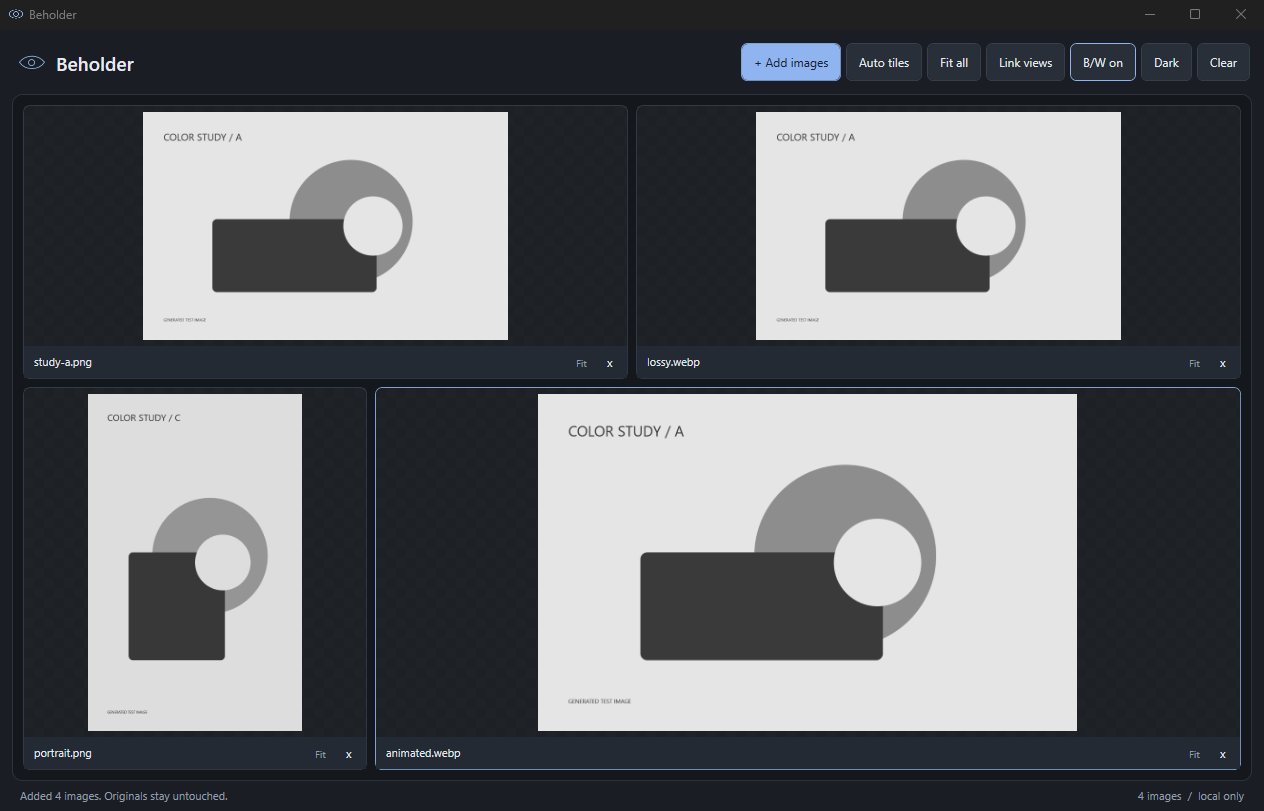
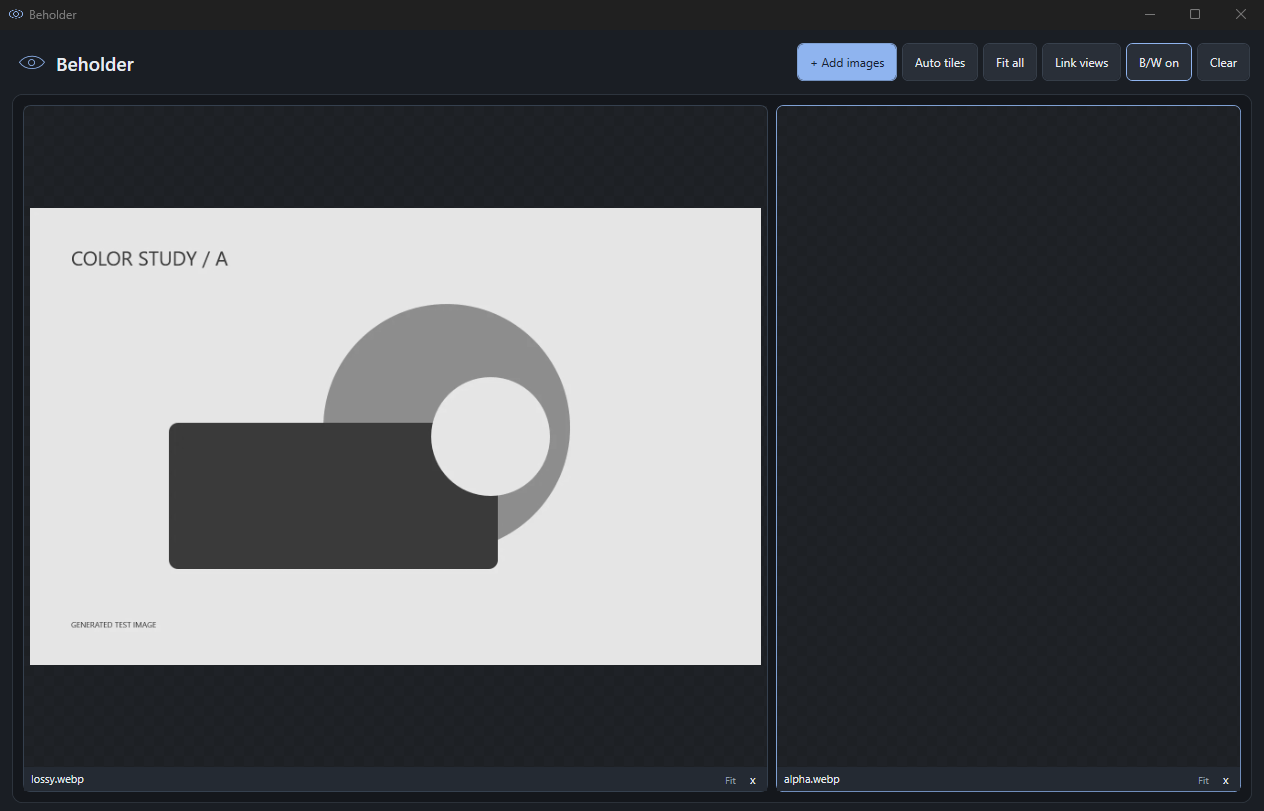
Beholder: compact captions and dark-only canvas
Remove the permanent app footer and theme selector; reclaim image space, preserve transient import errors, and verify 39 native regression checks.

diff --git a/beholder/src/Beholder.cs b/beholder/src/Beholder.cs
@@ -15,7 +15,7 @@ using Microsoft.Win32;
 
 [assembly: AssemblyTitle("Beholder")]
 [assembly: AssemblyDescription("A private, lightweight image comparison canvas")]
-[assembly: AssemblyVersion("1.0.0.0")]
+[assembly: AssemblyVersion("1.0.1.0")]
 [assembly: System.Runtime.Versioning.TargetFramework(".NETFramework,Version=v4.8")]
 
 namespace Beholder
@@ -42,22 +42,21 @@ namespace Beholder
         public string LastMessage { get; private set; }
         public ImageTile FocusedTile { get; private set; }
         private readonly Dictionary<string, int> pending = new Dictionary<string, int>(StringComparer.OrdinalIgnoreCase);
-        private readonly TextBlock status = new TextBlock();
-        private readonly TextBlock count = new TextBlock();
+        private readonly TextBlock errorText = new TextBlock();
+        private readonly Border errorNotice = new Border();
+        private readonly System.Windows.Threading.DispatcherTimer noticeTimer = new System.Windows.Threading.DispatcherTimer { Interval = TimeSpan.FromSeconds(8) };
         private readonly Border canvasBorder = new Border();
         private readonly Grid canvasHost = new Grid();
         private readonly StackPanel empty = new StackPanel();
         private readonly Button layoutButton;
         private readonly Button linkButton;
-        private readonly Button backgroundButton;
         private readonly Button monochromeButton;
         private ImageTile selected;
         private int importGeneration;
         private int clipboardNumber;
-        private int backgroundIndex;
         private bool fullscreen;
         private WindowState oldWindowState;
-        private readonly Brush[] backgrounds = { Paint("#14171C"), Paint("#797F86"), Paint("#F3F2EF") };
+        private readonly Brush canvasBackground = Paint("#14171C");
         public static readonly Brush Text = Paint("#E7EBF0");
         public static readonly Brush Muted = Paint("#939EAD");
         public static readonly Brush Accent = Paint("#8FB4EF");
@@ -86,7 +85,6 @@ namespace Beholder
             var root = new Grid();
             root.RowDefinitions.Add(new RowDefinition { Height = new GridLength(64) });
             root.RowDefinitions.Add(new RowDefinition());
-            root.RowDefinitions.Add(new RowDefinition { Height = new GridLength(30) });
             Content = root;
             var bar = new DockPanel { LastChildFill = false, Margin = new Thickness(18, 10, 14, 10) };
             Grid.SetRow(bar, 0); root.Children.Add(bar);
@@ -104,11 +102,9 @@ namespace Beholder
             actions.Children.Add(linkButton);
             monochromeButton = ActionButton("B/W", "Toggle black and white for every image (Ctrl+B)", async delegate { await SetMonochromeAsync(!Monochrome); });
             actions.Children.Add(monochromeButton);
-            backgroundButton = ActionButton("Dark", "Cycle the canvas: dark, grey, light", delegate { CycleBackground(); });
-            actions.Children.Add(backgroundButton);
             actions.Children.Add(ActionButton("Clear", "Remove all tiles, never delete original files (Ctrl+Shift+X)", delegate { ClearImages(); }));
-            canvasBorder.Margin = new Thickness(12, 0, 12, 0);
-            canvasBorder.Background = backgrounds[0];
+            canvasBorder.Margin = new Thickness(12, 0, 12, 8);
+            canvasBorder.Background = canvasBackground;
             canvasBorder.BorderBrush = Paint("#303740"); canvasBorder.BorderThickness = new Thickness(1); canvasBorder.CornerRadius = new CornerRadius(10);
             Grid.SetRow(canvasBorder, 1); root.Children.Add(canvasBorder);
             canvasBorder.Child = canvasHost;
@@ -125,20 +121,22 @@ namespace Beholder
             empty.Children.Add(choose);
             empty.Children.Add(new TextBlock { Text = "PNG  /  JPEG  /  WEBP  /  GIF  /  BMP  /  TIFF", Foreground = Paint("#667487"), FontSize = 11, HorizontalAlignment = HorizontalAlignment.Center });
             canvasHost.Children.Add(empty);
-            var bottom = new DockPanel { Margin = new Thickness(20, 0, 20, 0), VerticalAlignment = VerticalAlignment.Center };
-            Grid.SetRow(bottom, 2); root.Children.Add(bottom);
-            count.Foreground = Muted; count.FontSize = 11; DockPanel.SetDock(count, Dock.Right); bottom.Children.Add(count);
-            status.Foreground = Muted; status.FontSize = 11; status.TextTrimming = TextTrimming.CharacterEllipsis;
-            status.ToolTip = "Wheel: zoom  |  Drag image: pan  |  Drag filename: reorder  |  Double-click: focus  |  Delete: remove selected  |  F11: fullscreen  |  Ctrl+V: paste";
-            bottom.Children.Add(status);
-            SetStatus("Drop anywhere  /  Wheel to zoom  /  Drag to pan  /  F11 fullscreen");
-            UpdateCount();
+            // Errors float above the canvas only when needed, never reserve image space.
+            errorNotice.Background = Paint("#302725"); errorNotice.BorderBrush = Paint("#725444"); errorNotice.BorderThickness = new Thickness(1);
+            errorNotice.CornerRadius = new CornerRadius(6); errorNotice.Padding = new Thickness(12, 8, 12, 8); errorNotice.Margin = new Thickness(16);
+            errorNotice.HorizontalAlignment = HorizontalAlignment.Right; errorNotice.VerticalAlignment = VerticalAlignment.Top;
+            errorNotice.MaxWidth = 480; errorNotice.MaxHeight = 120; errorNotice.ClipToBounds = true; errorNotice.Visibility = Visibility.Collapsed;
+            errorText.Foreground = Paint("#FFC39E"); errorText.FontSize = 12; errorText.TextWrapping = TextWrapping.Wrap;
+            errorNotice.Child = errorText; canvasHost.Children.Add(errorNotice);
+            errorNotice.MouseLeftButtonDown += delegate(object sender, MouseButtonEventArgs e) { errorNotice.Visibility = Visibility.Collapsed; noticeTimer.Stop(); e.Handled = true; };
+            noticeTimer.Tick += delegate { errorNotice.Visibility = Visibility.Collapsed; noticeTimer.Stop(); };
+            UpdateEmptyState();
             Workspace.SizeChanged += delegate { Reflow(); };
             PreviewDragOver += OnDragOver;
             PreviewDrop += OnDrop;
             DragLeave += delegate { canvasBorder.BorderBrush = Paint("#303740"); };
             PreviewKeyDown += OnKey;
-            Closed += delegate { importGeneration++; Tiles.Clear(); pending.Clear(); Workspace.Children.Clear(); };
+            Closed += delegate { importGeneration++; noticeTimer.Stop(); Tiles.Clear(); pending.Clear(); Workspace.Children.Clear(); };
         }
 
         public static Brush Paint(string hex)
@@ -232,7 +230,7 @@ namespace Beholder
             if (Tiles.Count >= 64) { SetStatus("Canvas limit: 64 images.", true); return; }
             var tile = new ImageTile(item, this);
             Tiles.Add(tile); Workspace.Children.Add(tile);
-            FocusedTile = null; Select(tile); UpdateCount(); Reflow();
+            FocusedTile = null; Select(tile); UpdateEmptyState(); Reflow();
             ApplyCurrentFilter(tile);
         }
 
@@ -247,13 +245,13 @@ namespace Beholder
             if (FocusedTile == tile) FocusedTile = null;
             Tiles.Remove(tile); Workspace.Children.Remove(tile);
             if (selected == tile) Select(Tiles.LastOrDefault());
-            UpdateCount(); Reflow();
+            UpdateEmptyState(); Reflow();
         }
 
         public void ClearImages()
         {
             importGeneration++; Tiles.Clear(); Workspace.Children.Clear(); pending.Clear(); selected = null; FocusedTile = null;
-            UpdateCount(); Reflow(); SetStatus("Canvas cleared. Original files were not changed.");
+            UpdateEmptyState(); Reflow(); SetStatus("Canvas cleared. Original files were not changed.");
         }
 
         public void SetEqual(bool equal)
@@ -312,22 +310,12 @@ namespace Beholder
             foreach (var t in Tiles) if (t != source) t.SetNormalizedView(source.Zoom, normalized);
         }
 
-        private void UpdateCount()
+        private void UpdateEmptyState()
         {
             empty.Visibility = Tiles.Count == 0 ? Visibility.Visible : Visibility.Collapsed;
-            count.Text = Tiles.Count == 0 ? "Local only. No uploads." : Tiles.Count + " image" + (Tiles.Count == 1 ? "" : "s") + "  /  local only";
         }
 
-        private void CycleBackground()
-        {
-            backgroundIndex = (backgroundIndex + 1) % backgrounds.Length;
-            canvasBorder.Background = backgrounds[backgroundIndex];
-            backgroundButton.Content = new[] { "Dark", "Grey", "Light" }[backgroundIndex];
-            foreach (var t in Tiles) t.SetBackground(backgrounds[backgroundIndex]);
-            foreach (var label in empty.Children.OfType<TextBlock>()) label.Foreground = backgroundIndex == 0 ? (label.FontSize >= 20 ? Text : Muted) : Paint("#233144");
-        }
-
-        public Brush CanvasBackground { get { return backgrounds[backgroundIndex]; } }
+        public Brush CanvasBackground { get { return canvasBackground; } }
 
         public void Reflow()
         {
@@ -345,7 +333,9 @@ namespace Beholder
 
         private void SetStatus(string text, bool error = false)
         {
-            LastMessage = text; status.Text = text; status.ToolTip = text; status.Foreground = error ? Paint("#FFC39E") : Muted;
+            LastMessage = text; noticeTimer.Stop();
+            errorNotice.Visibility = error ? Visibility.Visible : Visibility.Collapsed;
+            if (error) { errorText.Text = text; errorNotice.ToolTip = text + "\nClick to dismiss"; noticeTimer.Start(); }
         }
 
         private void OnDragOver(object sender, DragEventArgs e)
@@ -437,7 +427,7 @@ namespace Beholder
             Item = item; owner = window; Zoom = 1;
             BorderBrush = BeholderWindow.Paint("#35404E"); BorderThickness = new Thickness(1); CornerRadius = new CornerRadius(7);
             Background = window.CanvasBackground; ClipToBounds = true;
-            var grid = new Grid(); grid.RowDefinitions.Add(new RowDefinition()); grid.RowDefinitions.Add(new RowDefinition { Height = new GridLength(32) }); Child = grid;
+            var grid = new Grid(); grid.RowDefinitions.Add(new RowDefinition()); grid.RowDefinitions.Add(new RowDefinition { Height = new GridLength(TileLayout.CaptionHeight) }); Child = grid;
             Viewport.Background = Checker(); Viewport.ClipToBounds = true; Viewport.Cursor = Cursors.Hand;
             grid.Children.Add(Viewport);
             image.Source = item.Bitmap; image.Stretch = Stretch.Uniform; image.Margin = new Thickness(6);
@@ -448,12 +438,12 @@ namespace Beholder
             var header = new DockPanel { Background = BeholderWindow.Paint("#242A33"), LastChildFill = true, Cursor = Cursors.SizeAll };
             Grid.SetRow(header, 1); grid.Children.Add(header);
             var remove = BeholderWindow.ActionButton("x", "Remove this image (original is untouched)", delegate { owner.Remove(this); });
-            remove.Width = 30; remove.MinWidth = 30; remove.Height = 28; remove.Padding = new Thickness(0); remove.Margin = new Thickness(0, 0, 2, 0); remove.Background = Brushes.Transparent; remove.BorderBrush = Brushes.Transparent;
+            remove.Width = 24; remove.MinWidth = 24; remove.Height = TileLayout.CaptionHeight; remove.Padding = new Thickness(0); remove.Margin = new Thickness(0, 0, 2, 0); remove.Background = Brushes.Transparent; remove.BorderBrush = Brushes.Transparent;
             System.Windows.Automation.AutomationProperties.SetName(remove, "Remove " + item.Name);
             DockPanel.SetDock(remove, Dock.Right); header.Children.Add(remove);
-            zoomText.Foreground = BeholderWindow.Muted; zoomText.FontSize = 10; zoomText.VerticalAlignment = VerticalAlignment.Center; zoomText.Margin = new Thickness(6, 0, 8, 0); zoomText.Text = "Fit";
+            zoomText.Foreground = BeholderWindow.Muted; zoomText.FontSize = 10; zoomText.VerticalAlignment = VerticalAlignment.Center; zoomText.Margin = new Thickness(4, 0, 5, 0); zoomText.Text = "Fit";
             DockPanel.SetDock(zoomText, Dock.Right); header.Children.Add(zoomText);
-            var name = new TextBlock { Text = item.Name, Foreground = BeholderWindow.Text, FontSize = 11, Margin = new Thickness(10, 0, 0, 0), VerticalAlignment = VerticalAlignment.Center, TextTrimming = TextTrimming.CharacterEllipsis, ToolTip = item.Name + "\n" + item.Width + " x " + item.Height + " px\nDrag this label to reorder" };
+            var name = new TextBlock { Text = item.Name, Foreground = BeholderWindow.Text, FontSize = 11, Margin = new Thickness(7, 0, 0, 0), VerticalAlignment = VerticalAlignment.Center, TextTrimming = TextTrimming.CharacterEllipsis, ToolTip = item.Name + "\n" + item.Width + " x " + item.Height + " px\nDrag this label to reorder" };
             header.Children.Add(name);
             Viewport.MouseWheel += delegate(object sender, MouseWheelEventArgs e)
             {
@@ -504,7 +494,6 @@ namespace Beholder
             if (owner.Monochrome && owner.Tiles.Contains(this)) image.Source = grey;
         }
 
-        public void SetBackground(Brush brush) { Background = brush; }
         public void SetSelected(bool value) { BorderBrush = value ? BeholderWindow.Accent : BeholderWindow.Paint("#35404E"); }
 
         private Size FitSize

diff --git a/beholder/tests/Tests.cs b/beholder/tests/Tests.cs
@@ -69,6 +69,16 @@ namespace Beholder
         private static async Task Run()
         {
             await Case("empty canvas has no tiles and accepts drops", () => Sync(delegate { Check(window.Tiles.Count == 0 && window.Workspace.Children.Count == 0, "Canvas is not empty"); Check(window.AllowDrop, "File drops disabled"); }));
+            await Case("dark-only canvas reclaims the global footer space", () => Sync(delegate
+            {
+                Pump(); var shell = (System.Windows.Controls.Grid)window.Content;
+                Check(shell.RowDefinitions.Count == 2, "Extra status-bar row still reserves image space");
+                Check(window.Workspace.ActualHeight > shell.ActualHeight - shell.RowDefinitions[0].ActualHeight - 36, "Canvas did not reclaim the bottom space");
+                var color = ((SolidColorBrush)window.CanvasBackground).Color;
+                Check(color.R < 50 && color.G < 50 && color.B < 50, "Canvas is not dark by default");
+                var buttons = Visuals<System.Windows.Controls.Button>(window).Select(b => Convert.ToString(b.Content));
+                Check(!buttons.Any(s => s == "Dark" || s == "Grey" || s == "Light"), "Theme selector is still exposed");
+            }));
             await Case("layout zero and invalid viewport", () => Sync(delegate { Check(TileLayout.Arrange(0, 100, new[] { 1.0 }, false).Count == 0, "Zero viewport produced cells"); Check(TileLayout.Arrange(100, 100, new double[0], false).Count == 0, "Empty input produced cells"); }));
             await Case("two comparisons are side by side and proportionate", () => Sync(delegate { var a = TileLayout.Arrange(1000, 600, new[] { 2.0, 0.5 }, false); Check(a.Count == 2 && a[0].Y == a[1].Y, "Not side by side"); Check(a[0].Width > a[1].Width && Math.Abs(a[0].Width / a[1].Width - 4) < 0.001, "Aspect-aware widths wrong"); }));
             await Case("random auto and equal layouts stay bounded and nonoverlapping", () => Sync(delegate
@@ -100,8 +110,22 @@ namespace Beholder
                 Pump(); Check(window.Tiles.Count == 3 && drop.Handled, "Actual routed drop did not import files");
                 ValidateLive();
             });
+            await Case("compact image captions preserve readable labels and removal controls", () => Sync(delegate
+            {
+                Pump();
+                foreach (var tile in window.Tiles)
+                {
+                    var grid = (System.Windows.Controls.Grid)tile.Child;
+                    double caption = grid.RowDefinitions[1].ActualHeight;
+                    Check(caption <= 24 && caption == TileLayout.CaptionHeight, "Filename strip is not compact or differs from layout geometry");
+                    Check(tile.Viewport.ActualHeight >= tile.Height - caption - 2.01, "Image viewport has unnecessary caption padding");
+                    Check(Visuals<System.Windows.Controls.TextBlock>(tile).Any(t => t.Text == tile.Item.Name && t.IsVisible && t.FontSize >= 11), "Filename became unreadable or hidden");
+                    var remove = Visuals<System.Windows.Controls.Button>(tile).Single(b => System.Windows.Automation.AutomationProperties.GetName(b) == "Remove " + tile.Item.Name);
+                    Check(remove.IsEnabled && remove.ActualHeight <= caption && remove.ActualHeight > 0, "Remove control is clipped");
+                }
+            }));
             await Case("duplicate file drop does not duplicate tiles", async delegate { int count = window.Tiles.Count; await window.AddFilesAsync(new[] { wide, wide }); Check(window.Tiles.Count == count, "Duplicate tile admitted"); });
-            await Case("corrupt and missing files are skipped with visible errors", async delegate { string corrupt = Path.Combine(evidence, "fixtures", "corrupt.png"); File.WriteAllText(corrupt, "not an image"); int count = window.Tiles.Count; await window.AddFilesAsync(new[] { corrupt, corrupt + ".missing" }); Check(window.Tiles.Count == count && window.LastMessage.Contains("skipped 2"), "Error not surfaced or corrupt tile added"); });
+            await Case("corrupt and missing files are skipped with visible errors", async delegate { string corrupt = Path.Combine(evidence, "fixtures", "corrupt.png"); File.WriteAllText(corrupt, "not an image"); int count = window.Tiles.Count; await window.AddFilesAsync(new[] { corrupt, corrupt + ".missing" }); Check(window.Tiles.Count == count && window.LastMessage.Contains("skipped 2"), "Error not surfaced or corrupt tile added"); Pump(); Check(Visuals<System.Windows.Controls.TextBlock>(window).Any(t => t.Text == window.LastMessage && t.IsVisible), "Import error not visible after removing status bar"); });
             await Case("wheel routed event zooms without clipping outside tile", () => Sync(delegate { var t = window.Tiles[0]; var args = new MouseWheelEventArgs(Mouse.PrimaryDevice, Environment.TickCount, 120); args.RoutedEvent = UIElement.MouseWheelEvent; t.Viewport.RaiseEvent(args); Check(t.Zoom > 1 && args.Handled && t.Viewport.ClipToBounds, "Wheel route failed"); }));
             await Case("zoom clamp pan clamp and fit reset", () => Sync(delegate { var t = window.Tiles[0]; t.SetView(100, 100000, -100000, false); Check(t.Zoom == 32 && Math.Abs(t.PanX) < 100000 && Math.Abs(t.PanY) < 100000, "Unbounded pan/zoom"); window.ResetAll(); Check(window.Tiles.All(x => x.Zoom == 1 && x.PanX == 0 && x.PanY == 0), "Fit reset failed"); }));
             await Case("linked views synchronize zoom and disable independently", () => Sync(delegate { var t = window.Tiles[0]; window.SetLink(true); t.SetView(3, 0, 0, true); Check(window.Tiles.All(x => x.Zoom == 3), "Linked zoom not propagated"); window.SetLink(false); t.SetView(4, 0, 0, true); Check(window.Tiles[1].Zoom == 3, "Unlinked zoom leaked"); window.ResetAll(); }));
@@ -134,6 +158,13 @@ namespace Beholder
                 using (var stream = File.Create(Path.Combine(evidence, "sample-canvas.png"))) encoder.Save(stream);
                 Check(new FileInfo(Path.Combine(evidence, "sample-canvas.png")).Length > 2000, "No rendered screenshot");
             });
+        }
+
+        private static IEnumerable<T> Visuals<T>(DependencyObject root) where T : DependencyObject
+        {
+            if (root is T) yield return (T)root;
+            for (int i = 0; i < VisualTreeHelper.GetChildrenCount(root); i++)
+                foreach (var node in Visuals<T>(VisualTreeHelper.GetChild(root, i))) yield return node;
         }
 
         private static string WebPFixture(string name)

diff --git a/beholder/src/Layout.cs b/beholder/src/Layout.cs
@@ -8,6 +8,8 @@ namespace Beholder
     // proportions; choose the row partition that uses the most uncropped pixels.
     public static class TileLayout
     {
+        public const double CaptionHeight = 24;
+
         public static List<Rect> Arrange(double width, double height, IList<double> aspects, bool equal)
         {
             var output = new List<Rect>();
@@ -24,7 +26,7 @@ namespace Beholder
                     double w = Math.Max(1, (width - gutter * (cols - 1)) / cols);
                     double h = Math.Max(1, (height - gutter * (rows - 1)) / rows);
                     double score = 0;
-                    for (int i = 0; i < n; i++) score += VisibleArea(w, Math.Max(1, h - 32), SafeAspect(aspects[i]));
+                    for (int i = 0; i < n; i++) score += VisibleArea(w, Math.Max(1, h - CaptionHeight), SafeAspect(aspects[i]));
                     if (score > bestScore) { bestScore = score; bestColumns = cols; }
                 }
                 int rowCount = (n + bestColumns - 1) / bestColumns;
@@ -68,7 +70,7 @@ namespace Beholder
                             if (double.IsInfinity(cost[r - 1, start])) continue;
                             double available = width - gutter * (end - start - 1);
                             if (available <= 0) continue;
-                            double idealHeight = available / (prefix[end] - prefix[start]) + 32;
+                            double idealHeight = available / (prefix[end] - prefix[start]) + CaptionHeight;
                             double mismatch = Math.Log(idealHeight / targetHeight);
                             double candidate = cost[r - 1, start] + mismatch * mismatch;
                             if (candidate < cost[r, end]) { cost[r, end] = candidate; previous[r, end] = start; }
@@ -81,7 +83,7 @@ namespace Beholder
                 for (int r = rows; r > 0; r--) { breaks.Insert(0, e); e = previous[r, e]; }
                 var rects = Rows(width, height, aspects, breaks);
                 double area = 0;
-                for (int i = 0; i < n; i++) area += VisibleArea(rects[i].Width, Math.Max(1, rects[i].Height - 32), SafeAspect(aspects[i]));
+                for (int i = 0; i < n; i++) area += VisibleArea(rects[i].Width, Math.Max(1, rects[i].Height - CaptionHeight), SafeAspect(aspects[i]));
                 if (area > bestArea) { bestArea = area; bestBreaks = breaks; }
             }
             return Rows(width, height, aspects, bestBreaks ?? new List<int> { n });
@@ -98,7 +100,7 @@ namespace Beholder
             {
                 double sum = 0;
                 for (int i = start; i < end; i++) sum += SafeAspect(aspects[i]);
-                double h = Math.Max(0.0000001, width - gutter * (end - start - 1)) / sum + 32;
+                double h = Math.Max(0.0000001, width - gutter * (end - start - 1)) / sum + CaptionHeight;
                 ideals.Add(h); total += h; start = end;
             }
             double availableH = Math.Max(0.0000001, height - gutter * (breaks.Count - 1));

diff --git a/beholder/README.md b/beholder/README.md
@@ -22,7 +22,8 @@ The executable is unsigned. Windows may display a SmartScreen warning for a newl
 - Double-click an image to focus it; double-click again or **Esc** to restore the grid.
 - **F11** toggles fullscreen. **Esc** exits fullscreen.
 - The tile's **x** or **Delete** removes the selected image. **Clear** / **Ctrl+Shift+X** empties the canvas. Original files are never deleted or written to.
-- **Dark / Grey / Light** cycles the canvas background. A subtle checkerboard makes transparency visible.
+- Dark-only canvas with a subtle checkerboard for transparency. No theme selector or bottom status bar; compact filename strips leave more room for the images.
+- Import errors appear briefly over the canvas without reserving layout space. Click an error to dismiss it.
 - Hover over a filename for its original pixel dimensions and full filename.
 
 ## Supported inputs and boundaries
